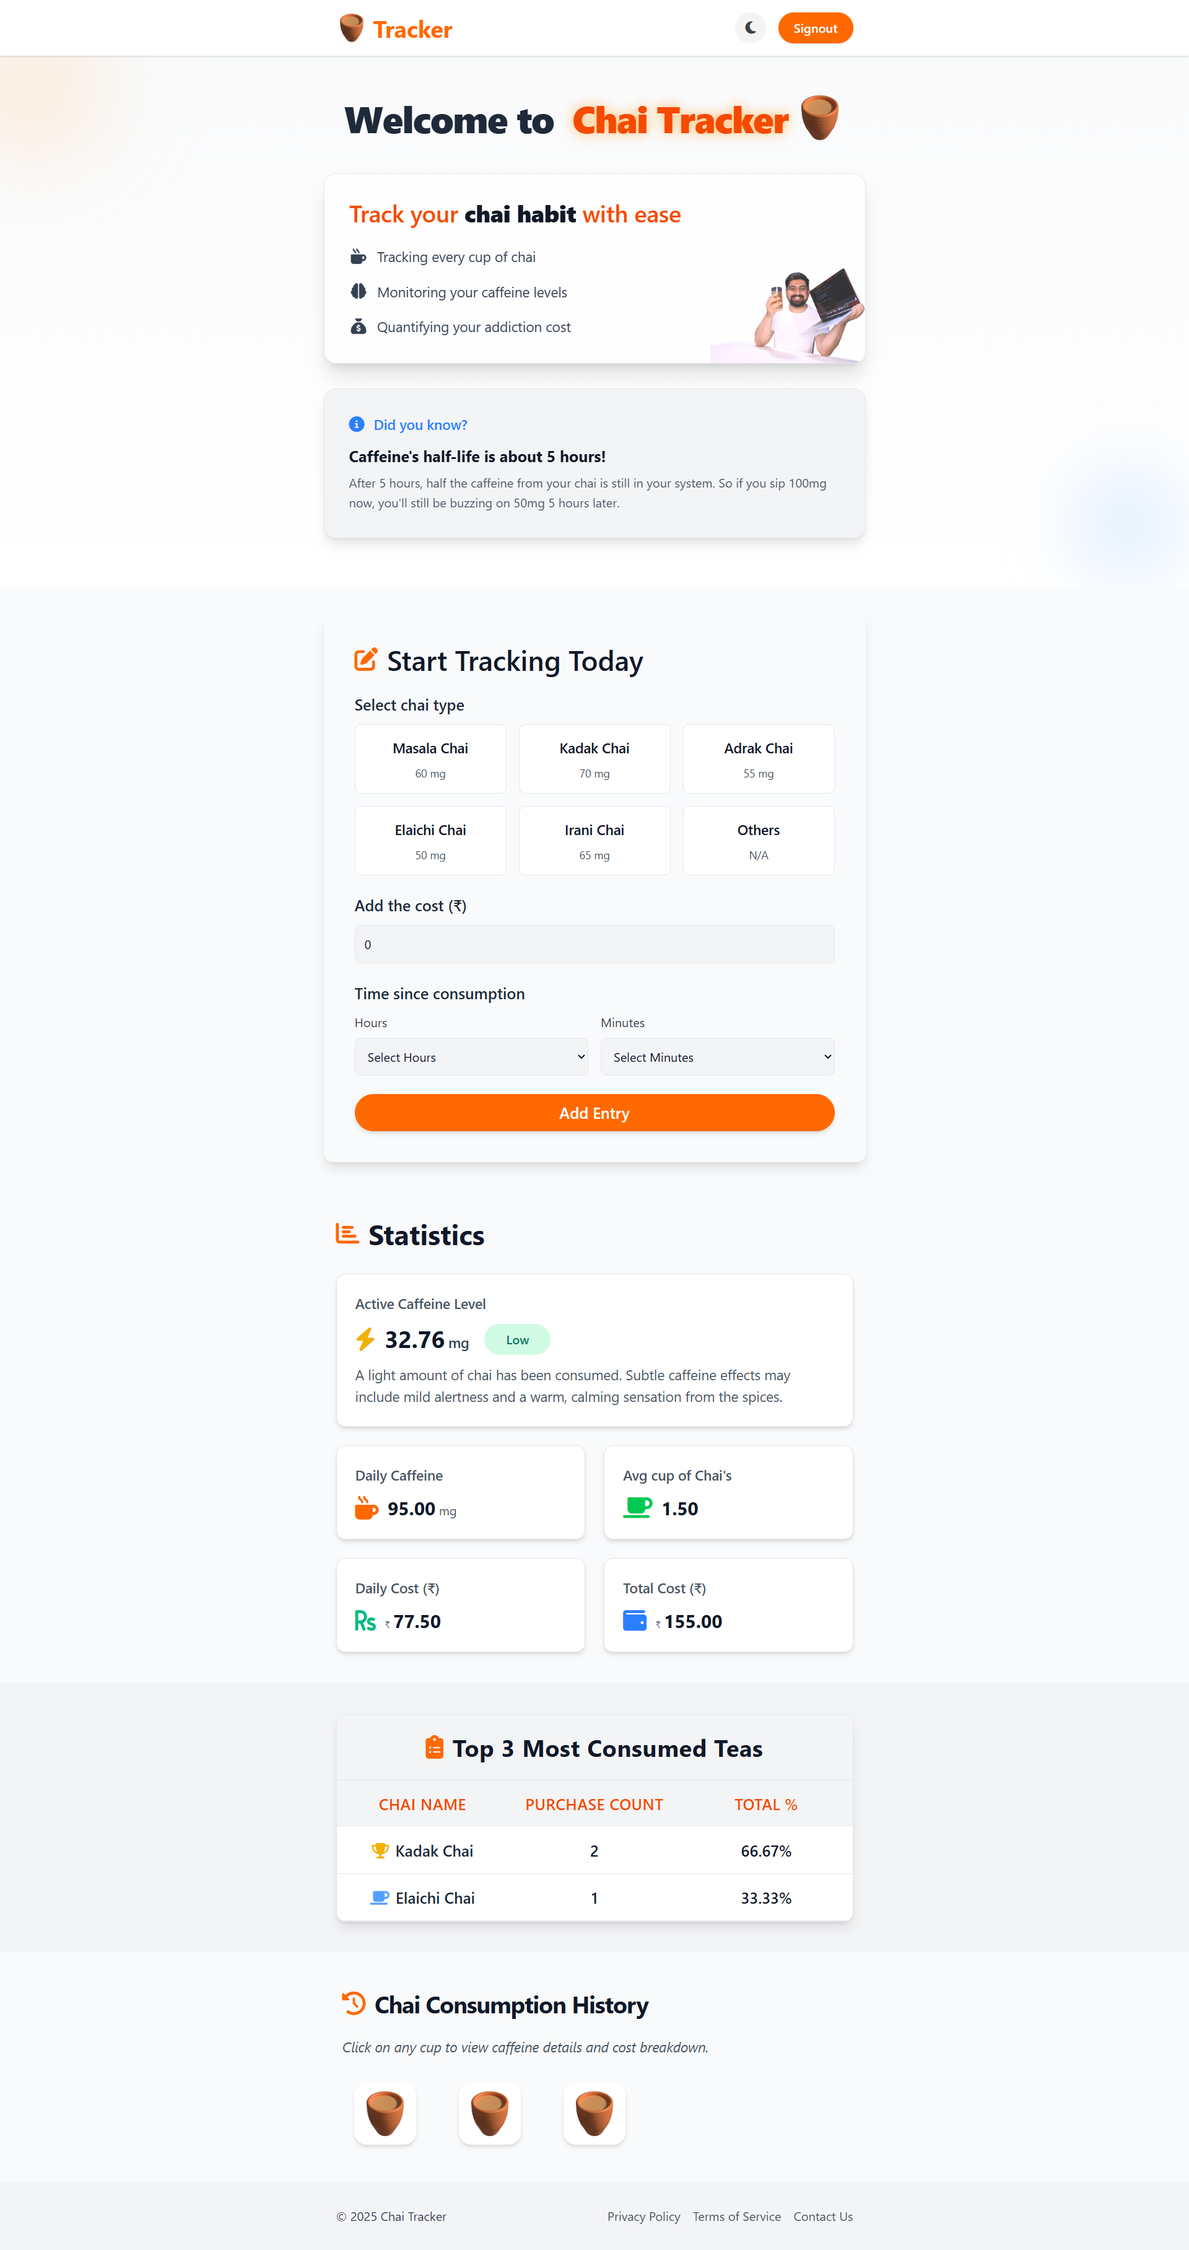
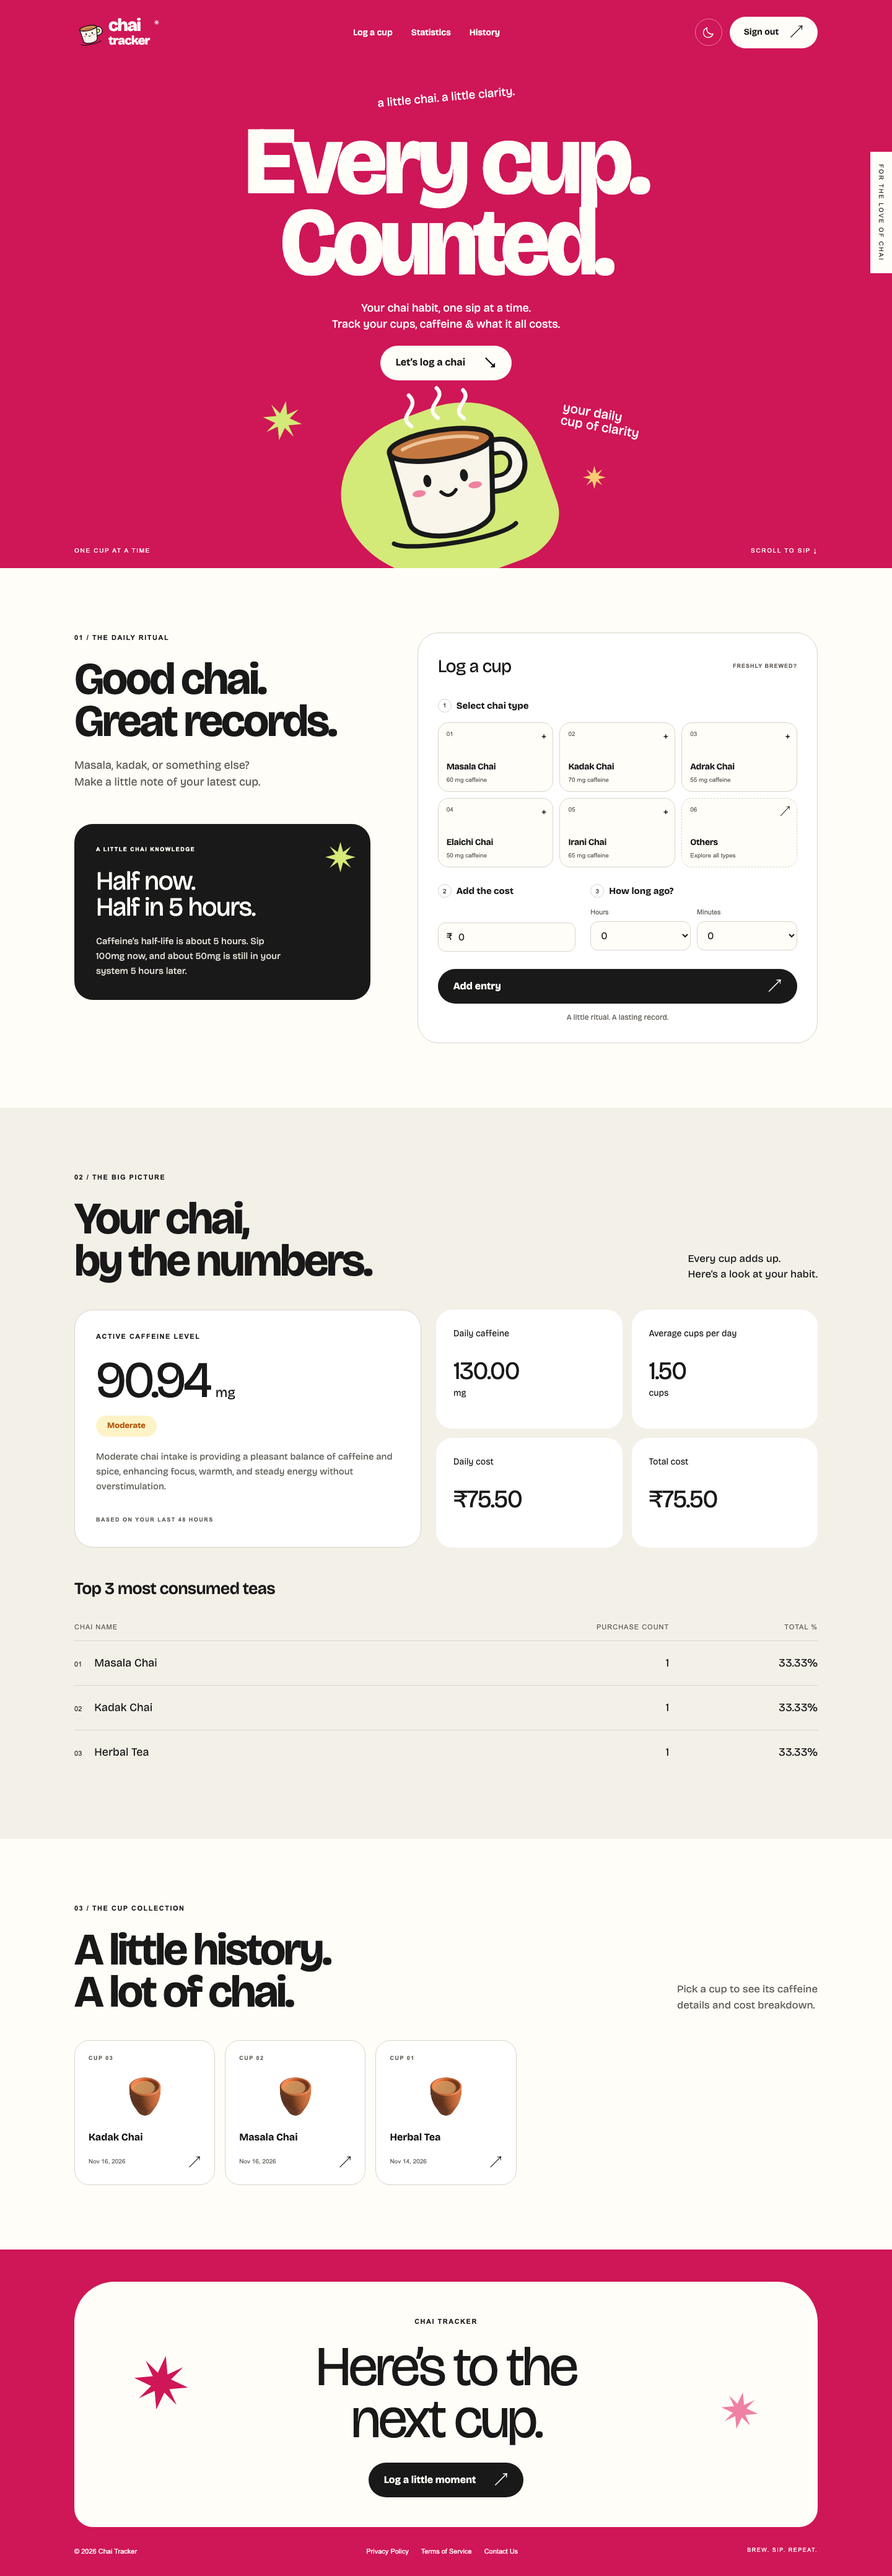
Polish theme panels and refresh project screenshots

diff --git a/tests/tracker.spec.js b/tests/tracker.spec.js
@@ -233,3 +233,40 @@ test("status boundaries and top tea counts stay consistent", async ({
   await expect(page.locator("tbody tr").first()).toContainText("Masala Chai");
   await expect(page.locator("tbody tr").first()).toContainText("66.67%");
 });
+
+test("supporting panels follow the theme and the clarity arrow is removed", async ({
+  page,
+}, testInfo) => {
+  await setup(page, true, seeded);
+  await expect(page.locator(".hand-note")).not.toContainText("⤴");
+  await expect(page.locator(".statistics")).toHaveCSS(
+    "background-color",
+    "rgb(243, 240, 232)",
+  );
+  await expect(page.locator(".footer-poster")).toHaveCSS(
+    "background-color",
+    "rgb(255, 253, 247)",
+  );
+  await audit(page);
+  await page.screenshot({
+    path: `test-results/${testInfo.project.name}-updated-light.png`,
+    fullPage: true,
+  });
+  await page.screenshot({
+    path: `test-results/${testInfo.project.name}-updated-hero.png`,
+  });
+  await page.getByRole("button", { name: "Switch to dark theme" }).click();
+  await expect(page.locator(".statistics")).toHaveCSS(
+    "background-color",
+    "rgb(54, 51, 48)",
+  );
+  await expect(page.locator(".footer-poster")).toHaveCSS(
+    "background-color",
+    "rgb(32, 32, 32)",
+  );
+  await audit(page);
+  await page.screenshot({
+    path: `test-results/${testInfo.project.name}-updated-dark.png`,
+    fullPage: true,
+  });
+});

diff --git a/src/index.css b/src/index.css
@@ -337,13 +337,6 @@ select {
   line-height: 1;
   transform: rotate(10deg);
 }
-.hand-note span {
-  font-size: 44px;
-  display: block;
-  transform: rotate(100deg);
-  margin-left: 8px;
-  margin-top: 12px;
-}
 .edge-note {
   position: absolute;
   right: 0;
@@ -1179,9 +1172,6 @@ select {
     right: -6px;
     top: 27px;
   }
-  .hand-note span {
-    font-size: 32px;
-  }
   .spark-one {
     width: 38px;
     left: 1px;
@@ -1357,4 +1347,47 @@ select {
   .history-entry:hover {
     transform: none;
   }
+}
+
+/* Supporting panels follow the selected theme. */
+.statistics {
+  background: var(--wash);
+  color: var(--ink);
+}
+.active-caffeine {
+  background: var(--card);
+  border-color: var(--line);
+}
+.active-caffeine p,
+.active-caffeine > .small-label,
+.top-teas th {
+  color: var(--muted);
+}
+.stat {
+  background: var(--card);
+  color: var(--ink);
+}
+.top-teas td {
+  border-color: var(--line);
+}
+.tea-rank {
+  color: var(--ink);
+}
+.footer-poster {
+  background: var(--paper);
+  color: var(--ink);
+}
+.footer-poster .pill {
+  background: var(--ink);
+  color: var(--paper);
+}
+.footer-poster > svg {
+  color: var(--pink);
+}
+.dark .footer-poster > svg {
+  color: #d3e978;
+}
+.statistics :focus-visible,
+.footer-poster :focus-visible {
+  outline-color: var(--ink);
 }

diff --git a/src/components/Hero.jsx b/src/components/Hero.jsx
@@ -23,7 +23,7 @@ const Hero = () => (
       <span className="hand-note">
         your daily
         <br />
-        cup of clarity <span aria-hidden="true">⤴</span>
+        cup of clarity
       </span>
     </div>
     <span className="edge-note">FOR THE LOVE OF CHAI</span>

diff --git a/README.md b/README.md
@@ -1,98 +1,71 @@
 # Chai Tracker
 
-**Sip. Track. Stay Balanced.**
+A personal chai diary. Track each cup, its cost, and estimated caffeine remaining.
 
-Chai Tracker is a fun and useful web app designed to help you track how much chai (tea) you've consumed and monitor your caffeine levels throughout the day. It provides a simple, intuitive way to manage your daily intake and visualize your habits.
+[Open Chai Tracker](https://chai-tracker.vercel.app/)
 
----
+## Features
 
-## 🔧 Features
+- Email and password sign-up/sign-in with Firebase Authentication.
+- Log any of 36 chai types, including caffeine-free teas, with its cost in rupees.
+- Backdate a cup by hours and minutes.
+- See estimated active caffeine, daily averages, total cost, and your three most consumed teas.
+- Open a history entry for its cost, time since consumption, and caffeine details.
+- Save entries in Cloud Firestore and keep your chosen light or dark theme across reloads.
+- Responsive layouts, keyboard-accessible dialogs, visible focus states, and reduced-motion support.
 
--   **Add and log every chai you drink** ☕: Easily record each cup of tea you consume.
--   **Track your caffeine level dynamically**: See your caffeine intake update in real-time.
--   **Visual history with timestamps and chai types**: Review your past consumption with clear details.
--   **Modal popups for detailed chai info**: Get more insights into each logged entry.
--   **Mobile responsive and fast UI**: Enjoy a seamless experience on any device.
--   **Light and dark mode**: Customize your viewing preference.
+Caffeine estimates use the existing five-hour half-life calculation and 48-hour window. The redesign preserves the original calculations and data format.
 
----
+## Screenshots
 
-## 🚀 Live Link
+Light theme, with sample records:
 
-[**Launch Chai Tracker →**](https://chai-tracker.vercel.app/) https://chai-tracker.vercel.app/
+![Chai Tracker in light mode](./screenshots/image-1.png)
 
----
+Dark theme, with the same sample records:
 
-## 🖼 Screenshots
+![Chai Tracker in dark mode](./screenshots/image-2.png)
 
-![img-1](./screenshots/image-1.png)
+Screenshots use isolated test data, not personal records.
 
-![img-2](./screenshots/image-2.png)
+## Design
 
----
+The pink poster composition, Bricolage Grotesque typography, pill controls, and original chai illustrations follow the supplied [design guide](./DESIGN.md). Statistics and footer panels follow the selected theme. The font is hosted locally with its [SIL Open Font License](./public/fonts/OFL.txt).
 
-## 💡 Why I Built This
+## Stack
 
-I built Chai Tracker to create a practical and enjoyable way for tea lovers to be more mindful of their consumption habits. The goal was to provide a straightforward tool that simplifies tracking, offers real-time insights into caffeine intake, and helps users maintain a balanced lifestyle without overcomplicating the process.
+React 19, JavaScript, Tailwind CSS 4, Vite 6, Firebase Authentication, and Cloud Firestore. Hosted on the existing Vercel project.
 
----
+## Run locally
 
-## 🧱 Challenges & Lessons
-
--   **Real-time Data Synchronization:** Using Firebase Authentication and Cloud Firestore to save each user's chai entries and load them when they sign in.
--   **Dynamic Caffeine Calculation:** Implementing a robust logic to accurately calculate and display dynamic caffeine levels based on consumption time and type.
--   **Intuitive UI/UX Design:** Crafting a clean, fast, and mobile-responsive interface that makes daily logging effortless and provides clear visual feedback.
-
----
-
-## 🧠 What I Learned
-
--   The power of Firebase for rapid prototyping and building scalable, real-time web applications with minimal backend code.
--   The importance of a utility-first CSS framework like Tailwind CSS for efficient and consistent styling, especially for responsive design.
--   How a focused, single-purpose application can provide significant value and a great user experience through simplicity and clarity.
-
----
-
-## 🗂 Tech Stack
-
--   **React** – Frontend Library
--   **Tailwind CSS** – Utility-first styling
--   **Firebase** – Authentication & Cloud Firestore
--   Deployed with **Vercel**
-
----
-
-## 📦 Future Enhancements
-
--   **Customizable Chai Types:** Allow users to define their own chai types with specific caffeine content.
--   **Daily/Weekly Reports:** Generate summaries of chai consumption and caffeine trends.
--   **Goal Setting:** Enable users to set daily caffeine limits and receive notifications.
-
----
-
-## 📁 Project Setup
-
-Clone the repo and run locally:
-
-```bash
-git clone https://github.com/the-ajay-panigrahi/chai-tracker.git
-cd chai-tracker
+```sh
 npm install
+```
+
+Create an ignored `.env.local` file with your Firebase project's values:
+
+```dotenv
+VITE_FIREBASE_APIKEY=your_api_key
+VITE_FIREBASE_AUTHDOMAIN=your_auth_domain
+VITE_FIREBASE_PROJECTID=your_project_id
+VITE_FIREBASE_STORAGEBUCKET=your_storage_bucket
+VITE_FIREBASE_MESSAGINGSENDERID=your_sender_id
+VITE_FIREBASE_APPID=your_app_id
+```
+
+Enable email/password authentication and configure appropriate Firestore access rules for `users/{uid}` in your Firebase project. Existing service configuration and access rules are unchanged.
+
+```sh
 npm run dev
 ```
-#### Create a .env file in the root directory of your project and add your Firebase credentials. Make sure to add your actual keys.
-```js
-VITE_FIREBASE_APIKEY=YOUR_FIREBASE_API_KEY = 
-VITE_FIREBASE_AUTHDOMAIN=YOUR_FIREBASE_AUTH_DOMAIN = 
-VITE_FIREBASE_PROJECTID=YOUR_FIREBASE_PROJECT_ID =
-VITE_FIREBASE_STORAGEBUCKET=YOUR_FIREBASE_STORAGE_BUCKET =
-VITE_FIREBASE_MESSAGINGSENDERID=YOUR_FIREBASE_MESSAGING_SENDER_ID =
-VITE_FIREBASE_APPID=YOUR_FIREBASE_APP_ID =
+
+## Checks
+
+```sh
+npx playwright install chromium
+npm run lint
+npm run build
+npm test
 ```
 
-
-## Redesign and checks
-
-The interface follows the supplied [design guide](./DESIGN.md), with locally hosted Bricolage Grotesque and original chai illustrations.
-
-Run `npm run lint`, `npm run build`, and `npm test`. Install the browser once with `npx playwright install chromium`. Browser tests use isolated Firebase adapters and never write to production. See [QA.md](./QA.md) for coverage and limits.
+Browser tests run the real components and auth provider with isolated Firebase adapters. They cover auth states, logging, backdating, merge writes, resets, failed saves, calculations, history details, themes, accessibility, and responsive layouts without accessing real records. See [QA.md](./QA.md) for verification details and limits.

diff --git a/QA.md b/QA.md
@@ -16,7 +16,7 @@ Verified 16 November 2026 against baseline `c3cc2cf`.
 
 - `npm run build`: production build.
 - `npm run lint`: no errors or warnings.
-- `npm test`: 12 Playwright tests across desktop Chromium and mobile Chromium, with 320px narrow layout coverage.
+- `npm test`: 14 Playwright tests across desktop Chromium and mobile Chromium, with 320px narrow layout coverage.
 - Guest auth gate; failed sign-in; sign-up confirmation; sign-in and sign-out states.
 - Chai selection, all additional chai options, decimal cost, backdated hours/minutes, merge-write payload, reset and failed-save retry state.
 - Caffeine decay, status categories, daily and total values, tea rankings and percentages, history order and detail modal.
@@ -35,3 +35,7 @@ The production build retains the existing large Firebase bundle warning. A compa
 ## Deployment
 
 The existing Vercel project is `chai-tracker`, connected to `the-ajay-panigrahi/chai-tracker`, production branch `main`, at https://chai-tracker.vercel.app/. No new hosting service, paid asset, plan upgrade or billing change is needed.
+
+## Theme polish
+
+Removed the decorative arrow beneath “your daily cup of clarity.” Statistics, its cards and table, and the closing footer panel now follow the selected light/dark theme. README screenshots were refreshed using sample records, and portfolio-v3’s saved Chai Tracker image was refreshed separately.
